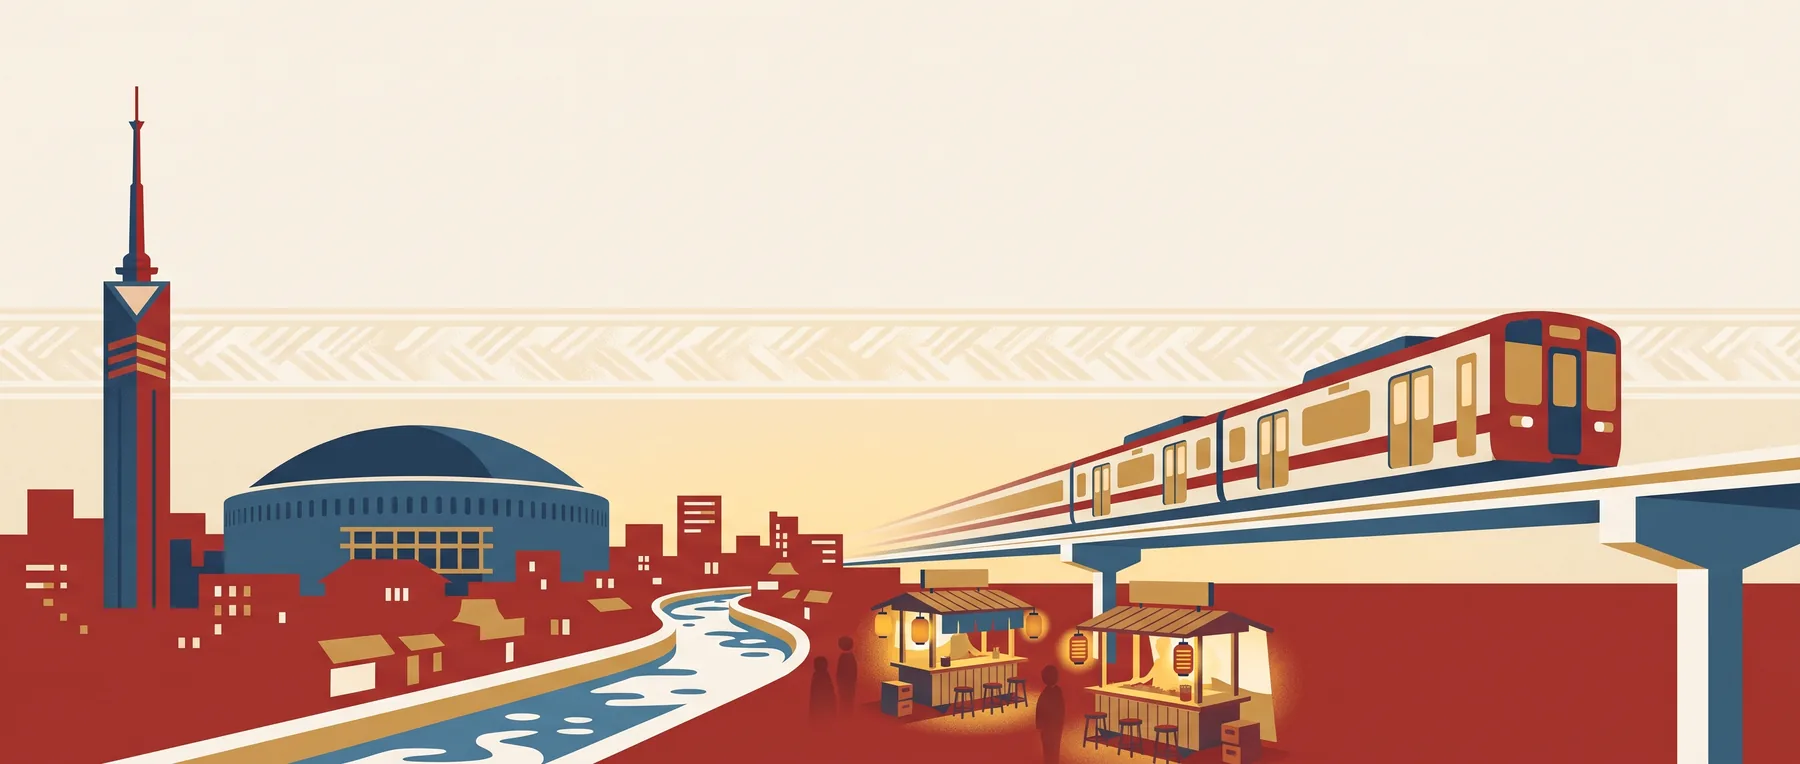
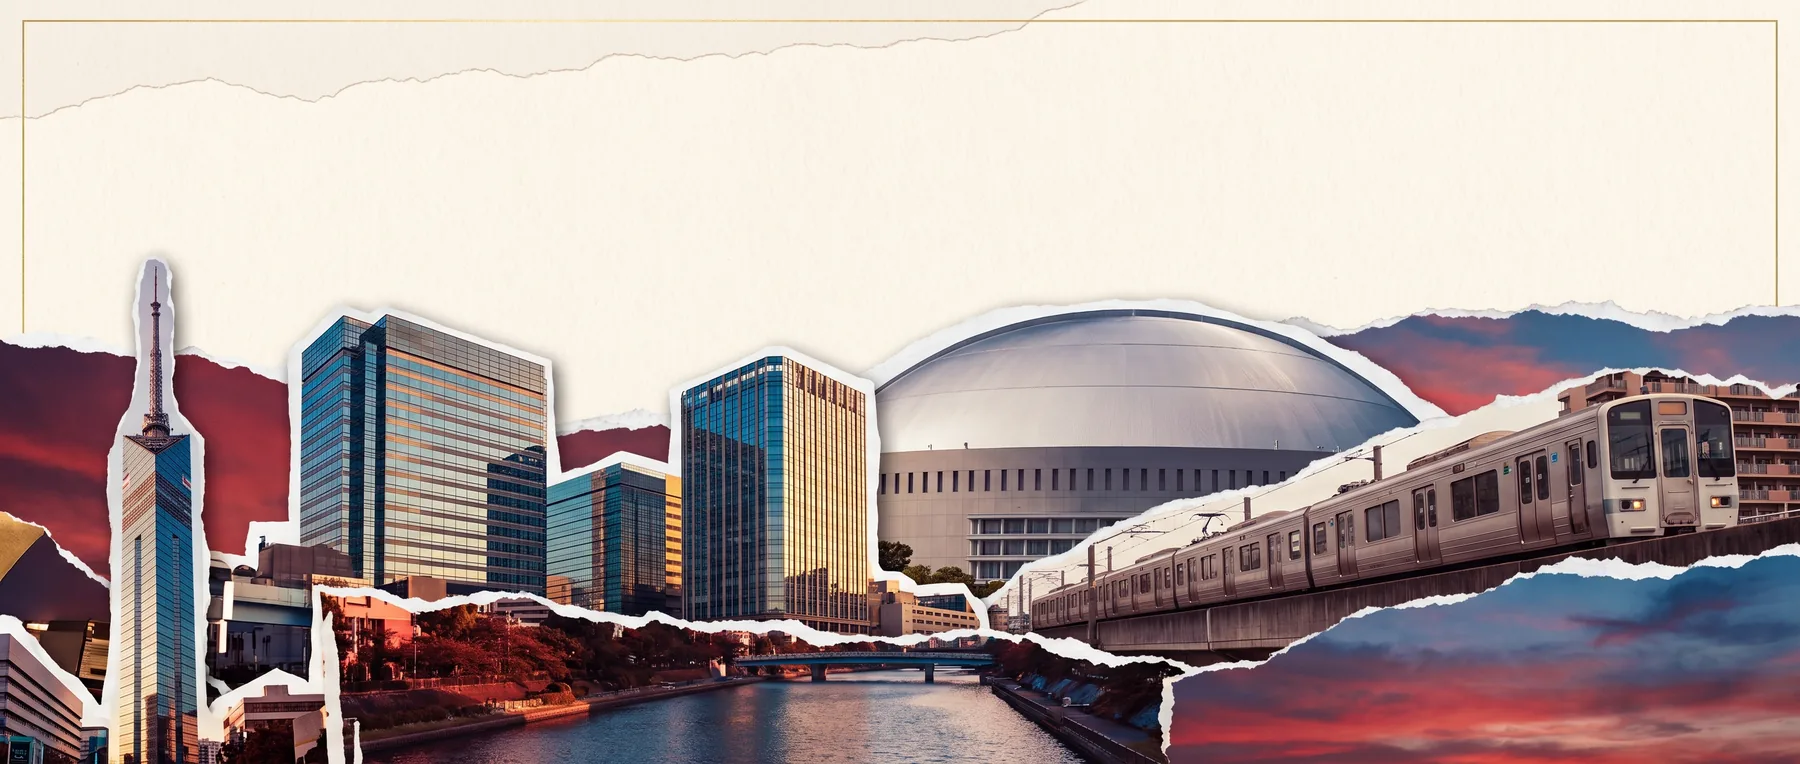
タイトルを「どれトク？ふくおかの定期」に、ヘッダーを実写コラージュに
- タイトル／PWA名を「どれトク？ふくおかの定期」に変更
- ヘッダー画像を福岡の実写風フォトコラージュに差し替え
  （福岡タワー・天神ビル群・ドーム・電車・那珂川、屋台なし）
- SW キャッシュを v4 に

diff --git a/css/styles.css b/css/styles.css
@@ -16,16 +16,16 @@ body{
 h1,h2,h3{margin:0 0 .4em; font-weight:700; line-height:1.35}
 a{color:var(--primary-d)}
 
-/* ヘッダー：福岡のヒーロー画像（博多タワー・ドーム・屋台・電車）*/
+/* ヘッダー：福岡の実写コラージュ（タワー・天神ビル・ドーム・電車・那珂川）*/
 .apphead{
   position:relative; text-align:center;
   background:linear-gradient(160deg,#f3e7cf 0%,#eedcc0 55%,#e6c9a6 100%);
   background-image:
-    linear-gradient(180deg, rgba(255,251,243,.34) 0%, rgba(255,251,243,.05) 42%, rgba(255,251,243,.30) 100%),
+    linear-gradient(180deg, rgba(250,244,232,.30) 0%, rgba(250,244,232,.04) 38%, rgba(250,244,232,.16) 100%),
     url("../img/hero.webp");
-  background-size:cover; background-position:center 78%;
+  background-size:cover; background-position:center top;
 }
-.apphead-inner{padding:26px 18px 190px; max-width:760px; margin:0 auto}
+.apphead-inner{padding:24px 18px 210px; max-width:760px; margin:0 auto}
 .apphead h1{
   font-size:1.75rem; letter-spacing:.03em; color:var(--primary-d);
   text-shadow:0 1px 0 rgba(255,253,247,.9), 0 2px 14px rgba(255,250,240,.8);

diff --git a/index.html b/index.html
@@ -4,7 +4,7 @@
 <meta charset="UTF-8">
 <meta name="viewport" content="width=device-width, initial-scale=1, viewport-fit=cover">
 <meta name="theme-color" content="#b23a2e">
-<title>福岡 定期券そろばん</title>
+<title>どれトク？ふくおかの定期</title>
 <link rel="manifest" href="manifest.webmanifest">
 <link rel="apple-touch-icon" href="icons/icon-192.png">
 <link rel="preconnect" href="https://fonts.googleapis.com">
@@ -15,8 +15,8 @@
 <body>
 <header class="apphead">
   <div class="apphead-inner">
-    <h1>福岡 定期券そろばん</h1>
-    <p>通勤定期、いちばんトクする買い方は？<br>福岡の地下鉄・西鉄・JRで判定します</p>
+    <h1>どれトク？ふくおかの定期</h1>
+    <p>福岡の地下鉄・西鉄・JRで、<br>通勤定期のいちばんトクする買い方を判定します</p>
   </div>
 </header>
 

diff --git a/sw.js b/sw.js
@@ -1,5 +1,5 @@
 /* オフラインキャッシュ（アプリ本体一式）。 */
-const CACHE = 'commupass-fukuoka-v3';
+const CACHE = 'commupass-fukuoka-v4';
 const ASSETS = [
   './',
   './index.html',

diff --git a/README.md b/README.md
@@ -1,7 +1,7 @@
-# 福岡 定期券そろばん（commupass_fukuoka）
+# どれトク？ふくおかの定期（commupass_fukuoka）
 
 福岡市内の鉄道で通勤する人が「定期券をどう買えば一番お得か」を判定する PWA。
-駅の選択は路線別に色分け。ヘッダーは福岡の街（タワー・ドーム・屋台・電車）のイラスト、
+駅の選択は路線別に色分け。ヘッダーは福岡の街（タワー・天神ビル・ドーム・電車・那珂川）の実写コラージュ、
 配色は博多織インスパイアの紅・藍・金茶。
 
 ## できること
@@ -31,7 +31,7 @@ css/styles.css
 js/data.js     路線・駅・連絡定期ルール・主要区間の定期代（初期めやす）・祝日
 js/app.js      経路探索・構成候補・出勤日数エンジン・戦略比較・途中下車・払戻し・色分けドロップダウン・UI
 js/lib/        jsPDF, html2canvas（同梱・オフラインPDF用）
-img/hero.webp  ヘッダーの福岡イラスト（Nano Banana Pro 生成）
+img/hero.webp  ヘッダーの福岡コラージュ（Nano Banana Pro 生成の実写風モンタージュ）
 manifest.webmanifest / sw.js / icons/
 server.ps1 + ローカルサーバー起動.cmd   ローカル確認用（http://localhost:8901/）
 docs/参考リンク.txt   参照した各社公式ページ
